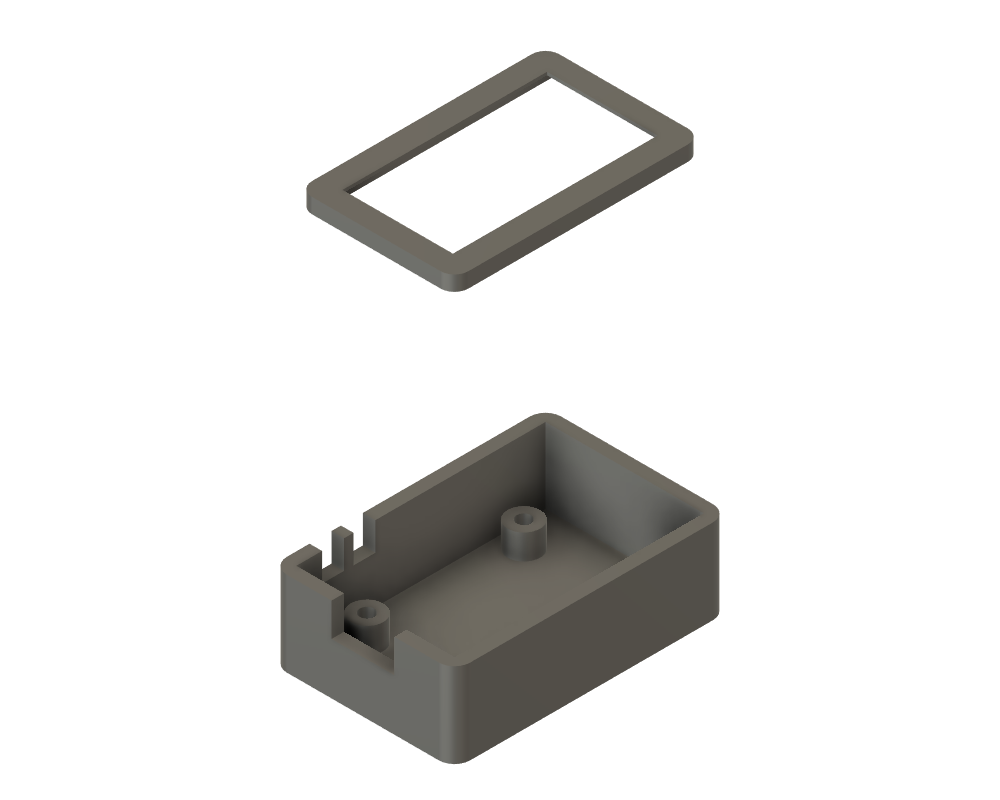
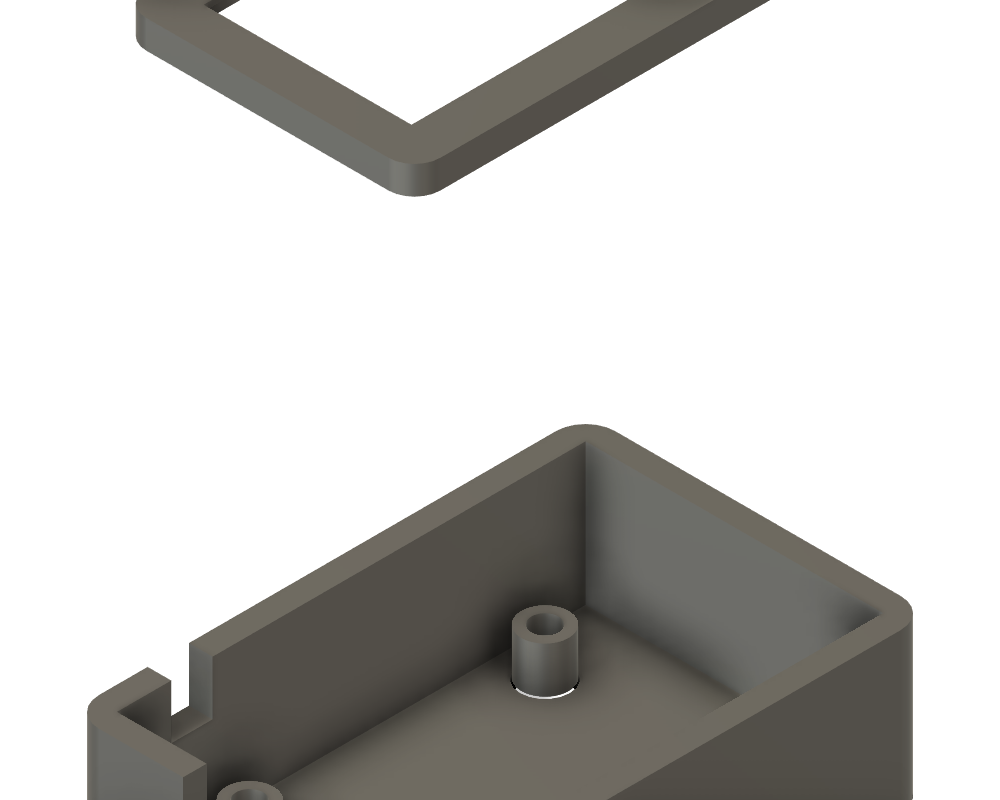
feat(design): case v4 — button + pillar layout from the Waveshare interface diagram
Read the labeled Interface Introduction diagram off the Waveshare docs (browser):
- BOOT is top-LEFT, RST is top-RIGHT (both by the USB) -> button slots now on OPPOSITE
  side walls near the USB end (v3 wrongly put both on the left).
- header rows run the FULL length of BOTH side edges -> slimmed the corner pillars to
  4mm (from 5.2) so a pillar at a corner hole won't foul the nearest header pin.
- added a top-down layout render.

Still to confirm on the real board: whether BOOT/RST actuate sideways (wall slots) or
off the back face, the standoff height, and that the slim pillars clear the headers.

Changed region(s): [[0.062, 0.5, 0.93, 1.0], [0.124, 0.0, 0.775, 0.375], [0.434, 0.6875, 0.465, 0.7188]]

diff --git a/design/s3-case/generate_case.py b/design/s3-case/generate_case.py
@@ -15,9 +15,12 @@ v3 (2026-07-03): mounting reworked for the REAL hardware (owner):
   * **4 mm female M2 brass standoffs** already fitted in the mounting holes (back side)  -> 4 mm printed
     pillars make up the gap (8 - 4); M2 button-head screw from the case back into each standoff (~M2x8).
   * headers + standoffs are on the BACK (non-screen side).
+v4 (same day): button + pillar layout corrected from the Waveshare **Interface Introduction** diagram —
+BOOT is top-LEFT, RST is top-RIGHT (both by the USB), and the header rows run the FULL length of both
+side edges, so the corner pillars are kept slim (4 mm) to avoid fouling the nearest header pin.
 This makes the case ~13–14 mm thick (the 8 mm headers dominate). Display window is exact (LBS147TC-IF15).
-STILL CONFIRM from a back-side photo: the M2 hole XY (hx_*/hy), the header footprint (so the pillars
-don't clash with a header block), the button positions (btn_*), and the exact standoff height.
+STILL CONFIRM on the real board: whether BOOT/RST actuate sideways (through the wall slots) or off the
+back face; the exact standoff height; and that the slim pillars clear your header pins.
 Print bezel window-down, tray open-up; PLA/PETG, 0.2 mm, 3 perimeters.
 """
 import adsk.core, adsk.fusion, os, traceback
@@ -31,11 +34,13 @@ P = dict(
     # rear stack (owner-measured)
     header_clear=8.0,      # rear header pin height off the PCB back  -> cavity depth under the board
     standoff_h=4.0,        # brass female M2 standoff height (already on the board back)
-    pillar_od=5.2,         # printed pillar OD (must seat the brass standoff foot)
+    pillar_od=4.0,         # printed pillar OD — kept slim: the header rows run the full side edges,
+                           #   so a fat pillar at a corner hole would foul the nearest header pin.
     m2_clear=2.3,          # screw shank clearance through pillar+floor
     m2_head=4.2, head_depth=1.6,   # counterbore for the M2 button head on the OUTSIDE of the case back
-    # buttons — NOT dimensioned in the drawing; a GUESS on the left (-X) wall. VERIFY from a photo.
-    btn_on='left', btn1_y=-9.0, btn2_y=-14.0, btn_w=3.5, btn_h=2.6,
+    # buttons (from the Waveshare interface diagram): BOOT is top-LEFT, RST is top-RIGHT, both near the
+    #   USB (top) edge. So one slot on each side wall, up near the USB end. VERIFY actuation dir on the board.
+    btn_left_y=-13.5, btn_right_y=-13.5, btn_w=3.5, btn_h=2.8,   # -Y is the USB/top edge here
     # fits / walls
     fit=0.35, bez_fit=0.30, wall=2.0, floor_t=1.5, front_clear=2.4,
     usb_w=10.0, usb_h=4.2, corner_r=2.5,
@@ -140,12 +145,11 @@ def run(_ctx=None):
             adsk.core.Point3D.create((-P['usb_w'] / 2) * M, (-(outer_l / 2 + 1)) * M, 0),
             adsk.core.Point3D.create((P['usb_w'] / 2) * M, (-(inner_l / 2 - 0.2)) * M, 0))
         ext(back, u.profiles.item(0), -(shell_h - usb_bottom), CUT)
-        # two side button slots (open-top). VERIFY positions.
+        # button slots: BOOT on the left (-X) wall, RST on the right (+X) wall, near the USB (-Y) end.
         btn_bottom = board_back + bt / 2 - P['btn_h'] / 2
-        for by in (P['btn1_y'], P['btn2_y']):
+        for (side, by) in ((-1, P['btn_left_y']), (+1, P['btn_right_y'])):
             s = back.sketches.add(plane_at(back, shell_h))
-            x0 = (inner_w / 2 - 0.2) if P['btn_on'] == 'right' else -(outer_w / 2 + 1)
-            x1 = (outer_w / 2 + 1) if P['btn_on'] == 'right' else -(inner_w / 2 - 0.2)
+            x0, x1 = (-(outer_w / 2 + 1), -(inner_w / 2 - 0.2)) if side < 0 else (inner_w / 2 - 0.2, outer_w / 2 + 1)
             s.sketchCurves.sketchLines.addTwoPointRectangle(
                 adsk.core.Point3D.create(x0 * M, (by - P['btn_w'] / 2) * M, 0),
                 adsk.core.Point3D.create(x1 * M, (by + P['btn_w'] / 2) * M, 0))

diff --git a/design/s3-case/README.md b/design/s3-case/README.md
@@ -5,6 +5,7 @@ firmware). Designed in Fusion 360; parametric generator + STLs here.
 
 ![assembled](render-assembled.png)
 ![exploded](render-exploded.png)
+![layout](render-layout.png)
 ![underside](render-underside.png)
 
 ## How it mounts (v3 — built around the real hardware)
@@ -17,6 +18,9 @@ non-screen side), so:
   pillar, into each female standoff. ~**M2 × 8 mm**, ×4.
 - The **bezel** press-fits into the front and frames the display (two-level window — underside recess
   clears the raised glass, top opening exposes just the active area).
+- **Buttons** (from the Waveshare interface diagram): **BOOT top-left, RST top-right**, both by the USB —
+  so there's a slot in each side wall up at the USB end. The header rows run the **full length of both
+  side edges**, so the corner pillars are kept **slim (4 mm)** to avoid fouling the nearest header pin.
 
 Because the 8 mm headers are enclosed, the case is ~**13.5 mm** thick. If you'd rather it were slimmer,
 either clip the headers and drop `header_clear`, or ask for a back-cutout variant.
@@ -33,12 +37,13 @@ either clip the headers and drop `header_clear`, or ask for a back-cutout varian
 | PCB ≈ **24.5 × 39 × 1.6 mm** | Waveshare drawing | good — caliper |
 | 4× M2 holes — top 17.78 / bottom 17.00 apart, 25.40 vertical | Waveshare drawing | good — confirm XY |
 | Rear headers **8 mm**, 4 mm female M2 standoffs, both on the **back** | owner-measured | **given** |
-| **Header footprint / position** (must not clash with the corner pillars) | — | **verify from a back photo** |
-| **Button (BOOT/RESET) positions** | not dimensioned | **guess — must verify** |
+| Buttons: **BOOT top-left, RST top-right**, header rows down **both** side edges | Waveshare interface diagram | good |
+| **Button actuation direction** (side-actuated through the wall slots vs. off the back face) | — | **check on the board** |
+| **Slim pillars clear the header pins** at the corners | — | **check on the board / a test print** |
 
-So before printing: from a **back-side photo** confirm the M2 hole XY (`hx_top/hx_bot/hy`), that the
-**header block doesn't sit where a pillar is**, and the **button positions** (`btn1_y/btn2_y/btn_on`).
-Then edit `P{}` in [`generate_case.py`](generate_case.py) and re-run.
+So before printing, on the real board confirm: whether **BOOT/RST press sideways** (the wall slots work)
+or off the **back** (then they need back-face access instead); the **standoff height**; and that the 4 mm
+pillars don't touch a header pin. Then edit `P{}` in [`generate_case.py`](generate_case.py) and re-run.
 
 ## Regenerate
 Fusion 360 → **Utilities ▸ Scripts and Add-Ins ▸ Scripts ▸ +** → add [`generate_case.py`](generate_case.py)
